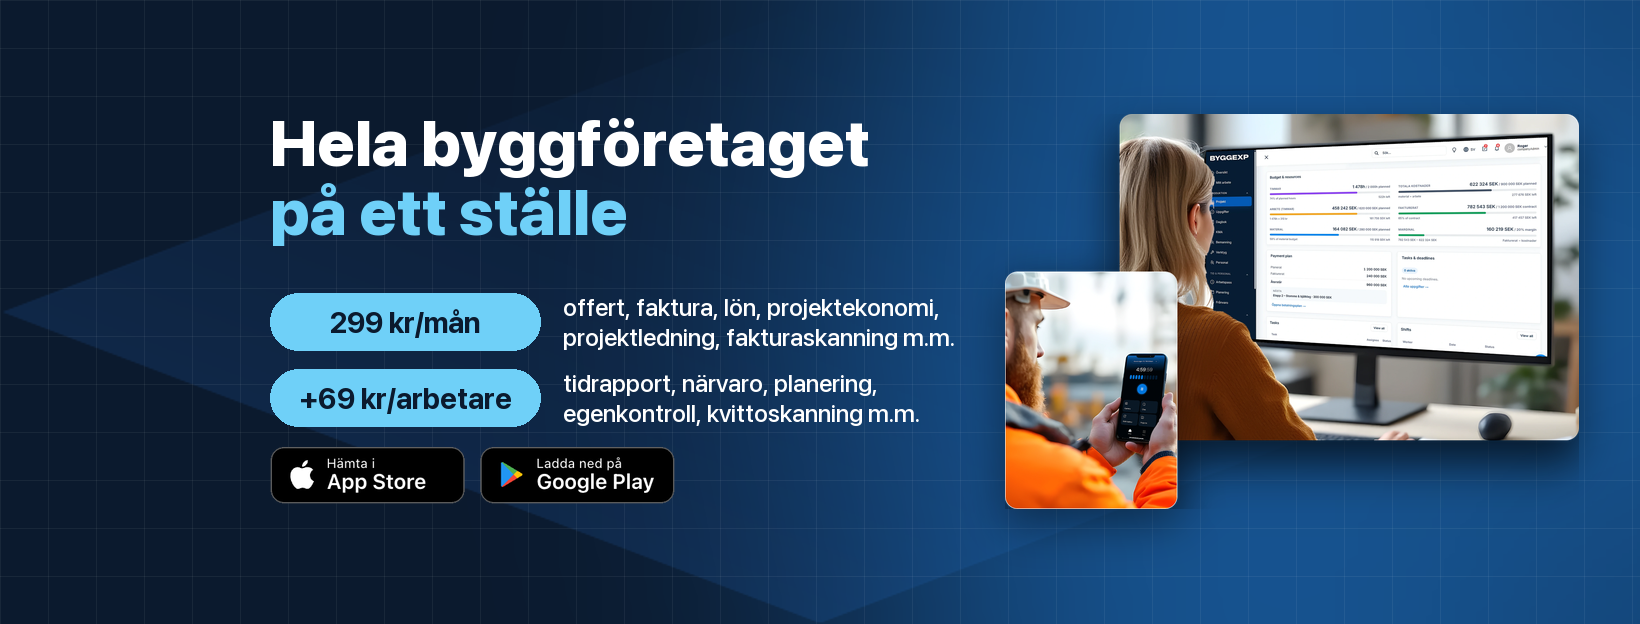
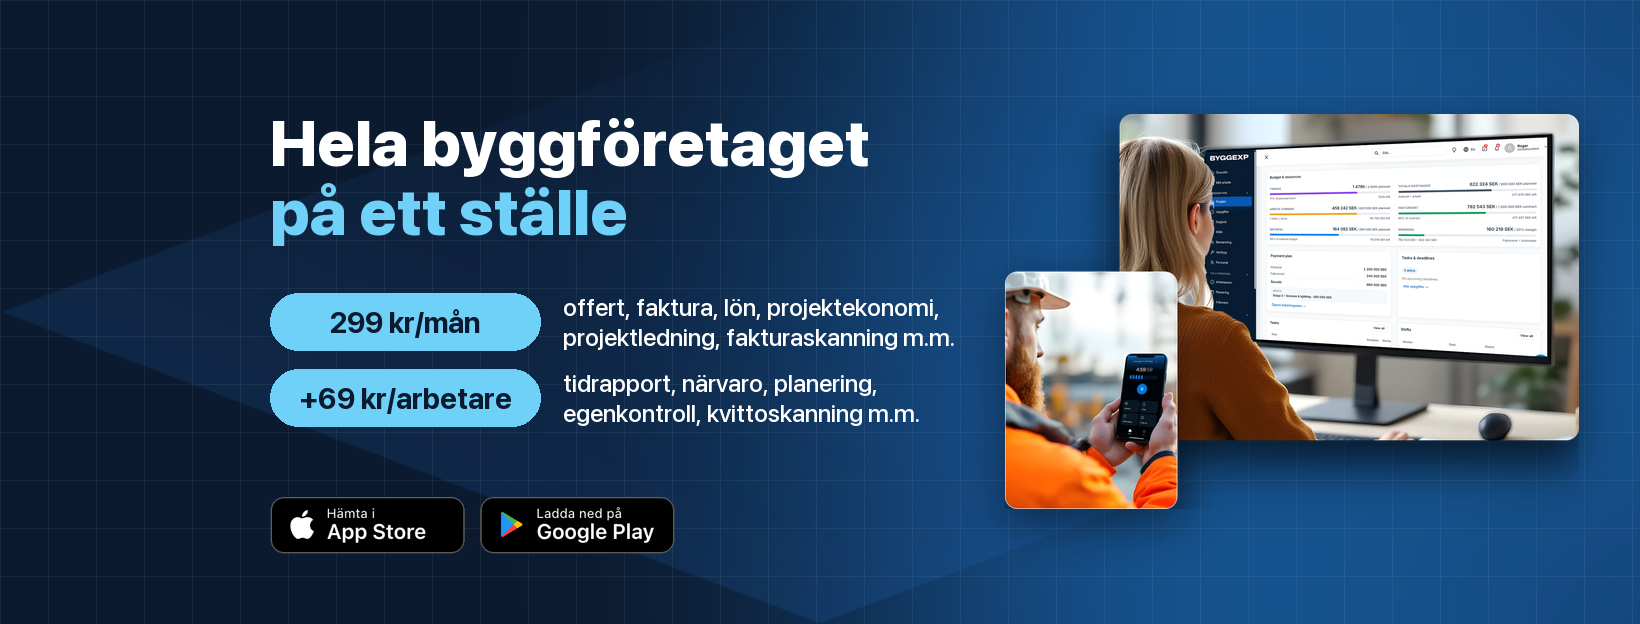
SMM S19: store badges with equal space above and below
Claude-Session: https://claude.ai/code/session_01XD1XQzsUammoaxUgkDVk4g

Changed region(s): [[0.1555, 0.7003, 0.4354, 0.9135]]

diff --git a/design-assets/social/covers/make_covers.py b/design-assets/social/covers/make_covers.py
@@ -111,7 +111,10 @@ def cover(name, w, h, safe, lines, fs, cell, sub=None, tw=None, shot=None, url=N
             text_w = max(text_w, rw)
             y += rh
     if stores:
-        y += int(fs * .3)
+        # S19: store badges sit with equal space above and below them
+        if center and rows:  # measure from the last price pill, not the taller label next to it
+            y -= (rhs[-1] - ph) // 2
+        y += (h - y - ph) // 2 if center else int(fs * .3)
         b = Image.open(TILES / "stores.png").convert("RGBA").crop((313, 64, 931, 151))
         b.putalpha(b.split()[3].point(lambda a: 255 if a > 200 else 0))
         b = b.resize((round(b.width * ph / b.height), ph), Image.LANCZOS)

diff --git a/design-assets/social/DESIGN-SYSTEM-SMM.md b/design-assets/social/DESIGN-SYSTEM-SMM.md
@@ -59,7 +59,7 @@
 
 **S18 · 2026-10-20 · Цена с пояснением, что в неё входит.** Не голая «299 kr/mån + 69 kr/arbetare», а строки «плашка цены + что входит»: «299 kr/mån — offert, faktura, lön, projektekonomi, projektledning, fakturaskanning m.m.» и «+69 kr/arbetare — tidrapport, närvaro, planering, egenkontroll, kvittoskanning m.m.»: 3–4 главные киллер-фичи из шапки сайта, остальное в «m.m.». Плашки одной ширины, пояснения выровнены по одной линии. Источник состава — `PRICE_LINES` в `src/components/HeroV2/HeroV2.tsx`. Код: `covers/make_covers.py` (`price` = список пар). Почему: владелец: «не понятно, что и за что — дать пояснения, что входит в сумму».
 
-**S19 · 2026-10-20 · Блок текста на обложке — по центру по высоте.** Расстояние от верха обложки до заголовка = расстоянию от низа значков сторов до низа обложки. Фото справа — крупное: на FB может выходить за мобильную зону до x 1580 (`shot_r`), текст остаётся в зоне 270–1120. Состав цены — короткими словами (fakturaskanning, kvittoskanning). Код: `cover(..., center=True, shot_r=…)` в `covers/make_covers.py`. Почему: владелец: «расстояние под кнопками как над», «картинку справа больше».
+**S19 · 2026-10-20 · Блок текста на обложке — по центру по высоте.** Расстояние от верха обложки до заголовка = расстоянию от низа значков сторов до низа обложки; значки сторов сдвинуты вниз так, что над ними (до строк цены) и под ними (до края обложки) поровну. Фото справа — крупное: на FB может выходить за мобильную зону до x 1580 (`shot_r`), текст остаётся в зоне 270–1120. Состав цены — короткими словами (fakturaskanning, kvittoskanning). Код: `cover(..., center=True, shot_r=…)` в `covers/make_covers.py`. Почему: владелец: «расстояние под кнопками как над», «картинку справа больше».
 
 **S7 · Текст.** Шведский, без кириллицы; только факты из `docs/seo/product-facts-verified.md`; ссылки с UTM.
 
